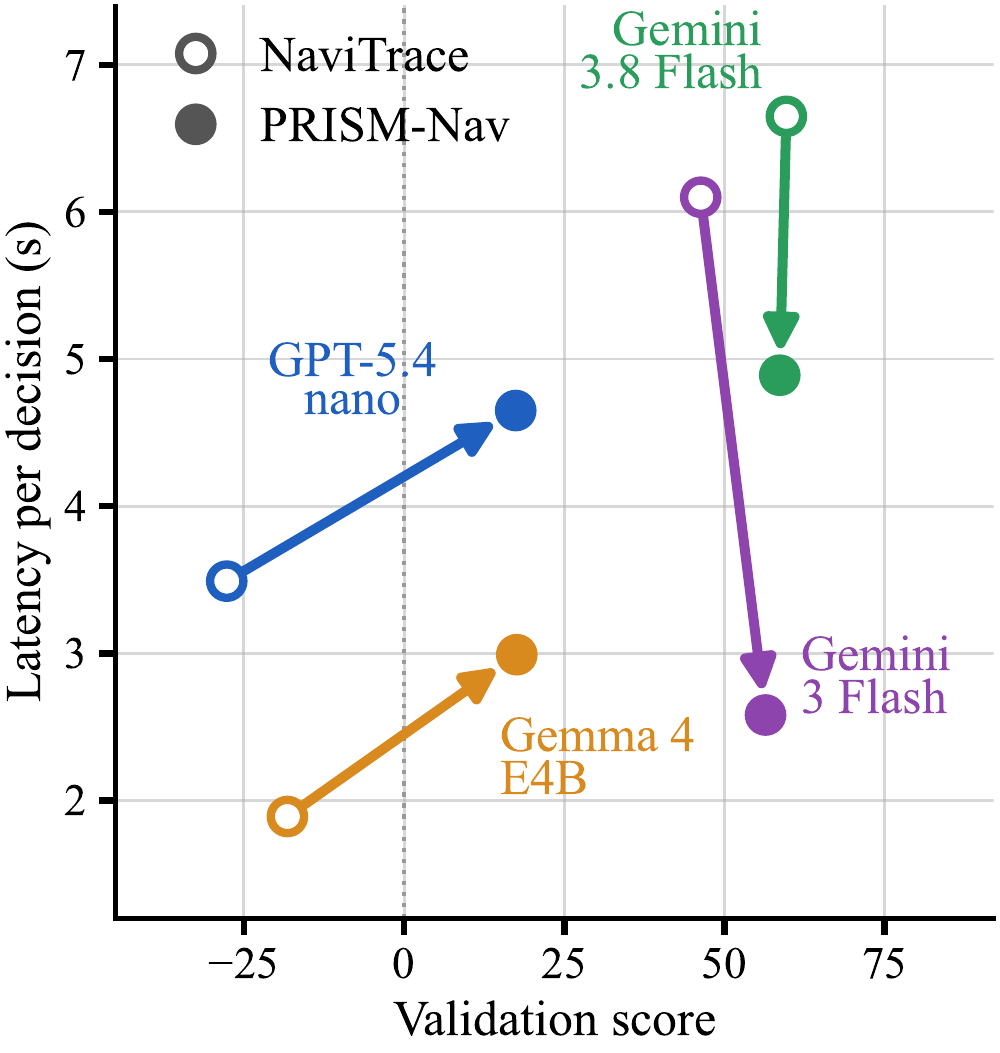
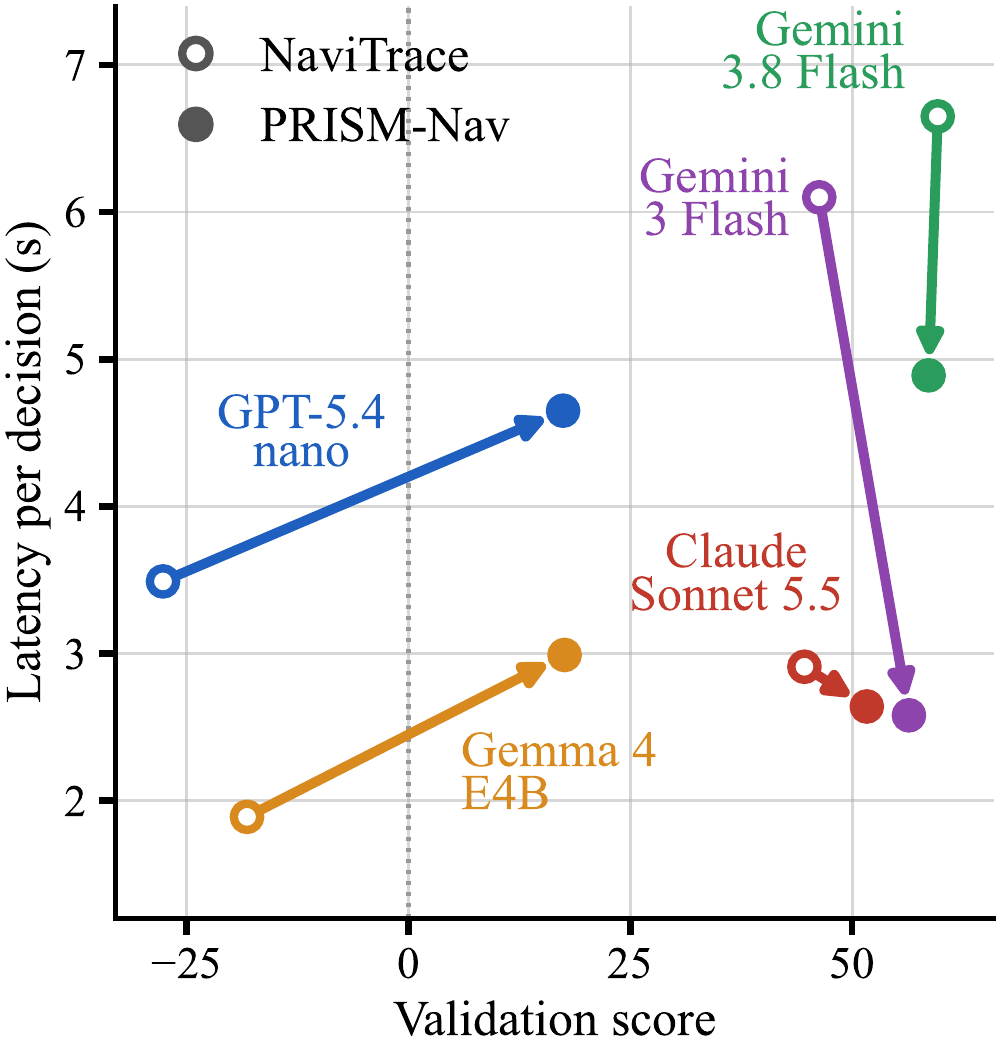
Fig. 1(b) with five backbones, implementation notes (executed goal check, Gemini 3 Flash serving)

diff --git a/index.html b/index.html
@@ -57,9 +57,9 @@
       Check every frame for faces, signs, and other identifying details before adding it. -->
       <div class="columns is-vcentered">
         <div class="column is-7"><img class="fig-img" src="static/images/teaser_run.jpg" alt="A wheeled robot enters a parking lot. NaviTrace takes the exit lane, PRISM-Nav takes the entrance lane."></div>
-        <div class="column is-5"><img class="fig-img" src="static/images/tradeoff.png" alt="Validation score against latency per decision for NaviTrace and PRISM-Nav on four backbones."></div>
+        <div class="column is-5"><img class="fig-img" src="static/images/tradeoff.png" alt="Validation score against latency per decision for NaviTrace and PRISM-Nav on five backbones."></div>
       </div>
-      <p class="figure-caption"><b>(Left)</b> A wheeled robot is asked to enter the parking lot. NaviTrace enters through the exit lane, whereas PRISM-Nav reads the markings on the ground and enters through the entrance lane. <b>(Right)</b> Validation score against latency per decision on four backbones. Each arrow runs from NaviTrace to PRISM-Nav, which recovers the accuracy on the small models and removes the latency on the reasoning models.</p>
+      <p class="figure-caption"><b>(Left)</b> A wheeled robot is asked to enter the parking lot. NaviTrace enters through the exit lane, whereas PRISM-Nav reads the markings on the ground and enters through the entrance lane. <b>(Right)</b> Validation score against latency per decision on five backbones. Each arrow runs from NaviTrace to PRISM-Nav, which recovers the accuracy on the small models and removes the latency on the reasoning models.</p>
     </div>
   </div>
 </section>
@@ -314,6 +314,14 @@
     <h3 class="title is-4 section-title mt-5">Qualitative results</h3>
     <div class="fig-frame"><img class="fig-img" src="static/images/qualitative.jpg" alt="Reference traces, NaviTrace, and PRISM-Nav on five validation scenes."></div>
     <p class="figure-caption">Reference traces, NaviTrace, and PRISM-Nav on five validation scenes with Gemini 3 Flash. The NaviTrace trace leaves the trail or crosses the rail tracks, and PRISM-Nav follows the reference.</p>
+
+    <h3 class="title is-4 section-title mt-5">Implementation notes</h3>
+    <div class="content">
+      <ul class="takeaways">
+        <li><b>The executed goal is a check on the output.</b> Without the executed goal field, GPT-5.4 nano scores 17.05 against 17.42 for PRISM-Nav on the validation split (paired Wilcoxon <i>p</i> = 0.77), so the field does not change the score.</li>
+        <li><b>Serving of Gemini 3 Flash.</b> Gemini 3 Flash reasons at low effort only when Google Vertex serves the call, so its reasoning-on rows are served by Vertex and its reasoning-off rows by Google AI Studio.</li>
+      </ul>
+    </div>
   </div>
 </section>
 
